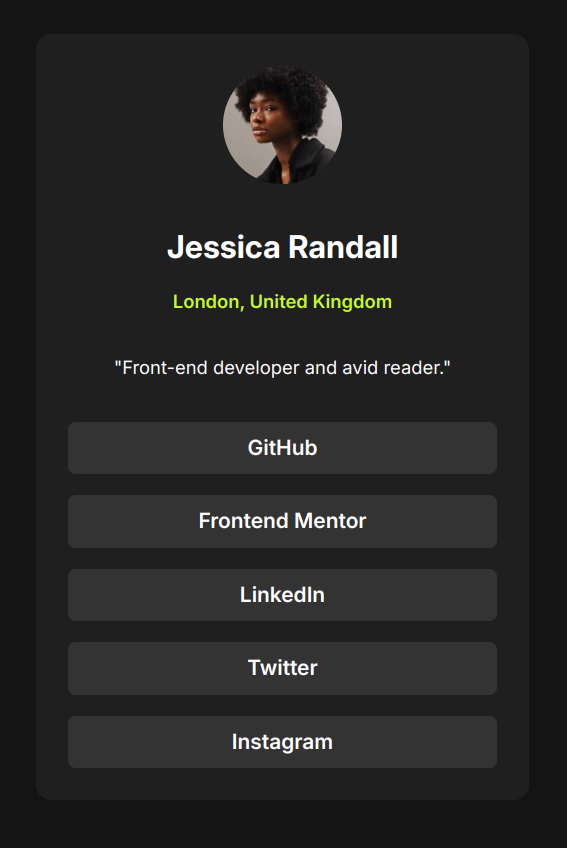
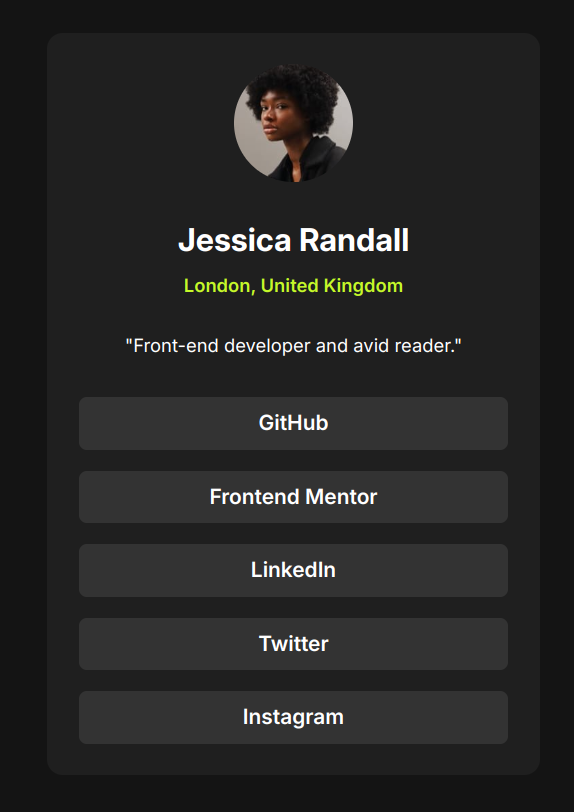
Adjust fonts

diff --git a/social-links-profile/src/index.html b/social-links-profile/src/index.html
@@ -23,9 +23,9 @@
         class="font-inter bg-myGray-800 text-myWhite desktop:w-[384px] desktop:p-10 flex w-[375px] flex-col items-center rounded-xl p-6 font-normal leading-none"
       >
         <img class="h-[90px] w-[90px] rounded-full" src="../assets/images/avatar-jessica.jpeg" alt="Jessica Randall" />
-        <h2 class="mt-8 text-2xl font-bold">Jessica Randall</h2>
-        <p class="text-myGreen mt-4 text-sm font-semibold">London, United Kingdom</p>
-        <p class="mt-8 text-sm leading-tight">"Front-end developer and avid reader."</p>
+        <h2 class="mt-8 text-2xl font-bold leading-none">Jessica Randall</h2>
+        <p class="text-myGreen mt-4 text-sm font-semibold leading-none">London, United Kingdom</p>
+        <p class="mt-8 text-sm leading-none">"Front-end developer and avid reader."</p>
         <ul class="mt-8 flex w-full flex-col gap-4">
           <li><a class="btn" href="#gitHub">GitHub</a></li>
           <li><a class="btn" href="#frontend_mentor">Frontend Mentor</a></li>

diff --git a/social-links-profile/src/css/built.css b/social-links-profile/src/css/built.css
@@ -653,25 +653,6 @@ video {
   background-color: hsl(0 0% 8% / var(--tw-bg-opacity));
 }
 
-.bg-myGreen {
-  --tw-bg-opacity: 1;
-  background-color: hsl(75 94% 57% / var(--tw-bg-opacity));
-}
-
-.bg-red-500 {
-  --tw-bg-opacity: 1;
-  background-color: rgb(239 68 68 / var(--tw-bg-opacity));
-}
-
-.bg-myGray-700 {
-  --tw-bg-opacity: 1;
-  background-color: hsl(0 0% 20% / var(--tw-bg-opacity));
-}
-
-.p-10 {
-  padding: 2.5rem;
-}
-
 .p-6 {
   padding: 1.5rem;
 }
